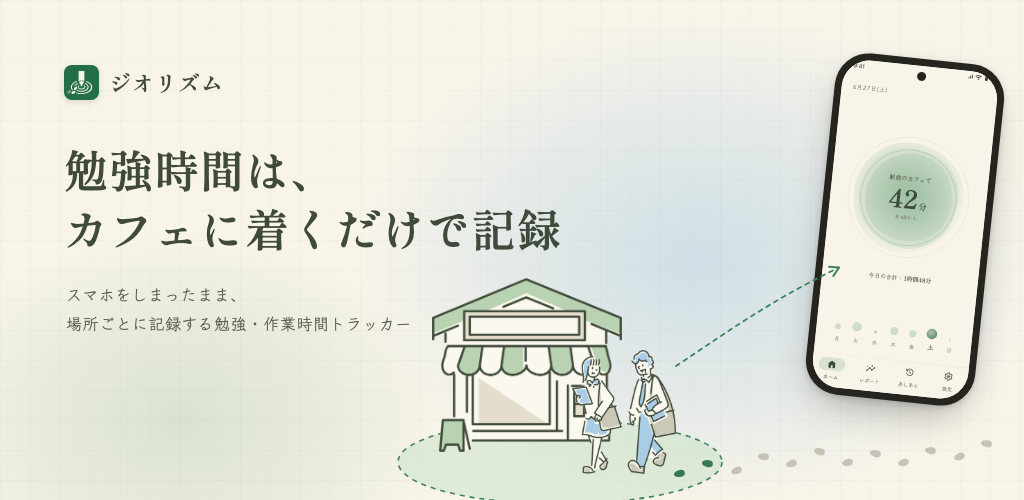
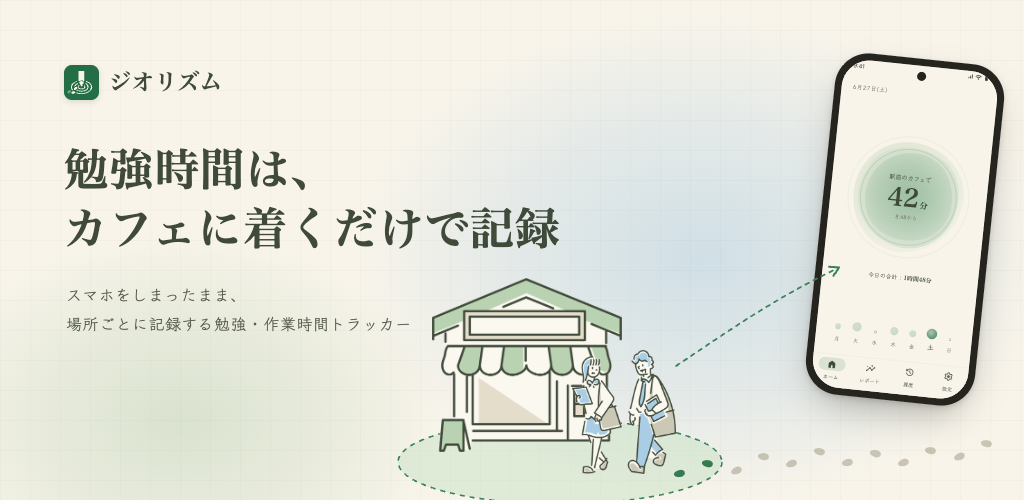
docs: アプリ内の文言の見直しに合わせて、プライバシーポリシーと紹介ページを更新する
アプリ側(geoben #137・#138・#139)で「あしあと」を「履歴」「記録」に、「計測中」を「記録中」に、
「データの管理」を「記録の管理」に改めたことに合わせた。

- privacy.html: 「場所・あしあと・設定」→「場所・記録・設定」、「あしあと画面」→「履歴の画面」、
  「設定 → データの管理」→「設定 → 記録の管理」。最終改定日を2026年10月11日に更新(原本はgeobenのdocuments/privacy_policy.md)
- index.html: 紹介文・画面紹介・よくある質問の画面名を「履歴」「記録の管理」に。履歴のモックのタイトル・「記録中」の印・
  区切りの「・」・年月の「2026年9月」・「1時間」(60分の表記)をアプリに合わせる
- assets/ogp.png: geobenで再書き出ししたフィーチャーグラフィック(端末の画面内のタブ名が「履歴」)に差し替え
- README.md: 画面名の表とモックの説明を更新

diff --git a/index.html b/index.html
@@ -270,7 +270,7 @@ a:focus-visible,summary:focus-visible{outline:2px solid var(--color-moss);outlin
 .m-cal-grid i.l3{background:var(--color-cafe-heat-3)}
 .m-cal-grid i.l4{background:var(--color-cafe-heat-4);color:var(--color-seg-sel)}
 
-/* --- あしあと(履歴) --- */
+/* --- 履歴 --- */
 .m-hist-body{flex:1;padding:44px 24px 0;min-height:0;overflow:hidden}
 .m-day-head{display:flex;align-items:baseline;justify-content:space-between;margin:20px 2px 6px}
 .m-day-head span:first-child{font-size:13px;color:var(--color-ink-soft)}
@@ -502,7 +502,7 @@ dialog::backdrop{background:rgba(58,54,48,.42)}
       <div class="step reveal">
         <div class="step-num">3</div>
         <h3>積み上げを振り返る</h3>
-        <p>たまった記録は、レポートやあしあとの画面でいつでも見られます。</p>
+        <p>たまった記録は、レポートや履歴の画面でいつでも見られます。</p>
       </div>
     </div>
 
@@ -530,7 +530,7 @@ dialog::backdrop{background:rgba(58,54,48,.42)}
               <div class="m-report-body">
                 <div class="m-title">レポート</div>
                 <div class="m-seg"><span class="sel">月</span><span>全期間</span></div>
-                <div class="m-period"><span class="ms">chevron_left</span>2026年 9月<span class="ms dim">chevron_right</span></div>
+                <div class="m-period"><span class="ms">chevron_left</span>2026年9月<span class="ms dim">chevron_right</span></div>
 
                 <div class="m-card cafe">
                   <div class="m-card-head"><span class="m-tile"><span class="ms">local_cafe</span></span><span class="m-card-name">駅前のカフェ</span><span class="ms chev">chevron_right</span></div>
@@ -577,7 +577,7 @@ dialog::backdrop{background:rgba(58,54,48,.42)}
                   <div class="m-stats"><div><small>回数</small><b>12回</b></div><div><small>1回の平均</small><b>1時間34分</b></div></div>
                 </div>
                 <div class="m-cal">
-                  <div class="m-period"><span class="ms">chevron_left</span>2026年 9月<span class="ms dim">chevron_right</span></div>
+                  <div class="m-period"><span class="ms">chevron_left</span>2026年9月<span class="ms dim">chevron_right</span></div>
                   <div class="m-cal-dow"><span>月</span><span>火</span><span>水</span><span>木</span><span>金</span><span>土</span><span>日</span></div>
                   <div class="m-cal-grid"><span></span><span><i class="l0">1</i></span><span><i class="l3" style="width:31.4px;height:31.4px">2</i></span><span><i class="l0">3</i></span><span><i class="l3" style="width:33.2px;height:33.2px">4</i></span><span><i class="l0">5</i></span><span><i class="l4" style="width:38.0px;height:38.0px">6</i></span><span><i class="l3" style="width:29.6px;height:29.6px">7</i></span><span><i class="l0">8</i></span><span><i class="l3" style="width:32.6px;height:32.6px">9</i></span><span><i class="l0">10</i></span><span><i class="l4" style="width:36.8px;height:36.8px">11</i></span><span><i class="l2" style="width:28.4px;height:28.4px">12</i></span><span><i class="l3" style="width:30.6px;height:30.6px">13</i></span><span><i class="l0">14</i></span><span><i class="l2" style="width:27.8px;height:27.8px">15</i></span><span><i class="l4" style="width:35.0px;height:35.0px">16</i></span><span><i class="l0">17</i></span><span><i class="l2" style="width:27.2px;height:27.2px">18</i></span><span><i class="l2" style="width:25.0px;height:25.0px">19</i></span><span><i class="l0">20</i></span><span><i class="l0">21</i></span><span><i class="l0">22</i></span><span><i class="l0">23</i></span><span><i class="l0">24</i></span><span><i class="l0">25</i></span><span><i class="l0">26</i></span><span><i class="l0">27</i></span><span><i class="l0">28</i></span><span><i class="l0">29</i></span><span><i class="l0">30</i></span></div>
                 </div>
@@ -594,54 +594,54 @@ dialog::backdrop{background:rgba(58,54,48,.42)}
         <figcaption><strong>場所の詳細</strong><span>カードをタップすると、その場所の1か月の記録を日ごとに見られます。</span></figcaption>
       </figure>
 
-      <!-- あしあと -->
+      <!-- 履歴 -->
       <figure class="shot-fig reveal">
         <div class="device">
           <div class="device-screen">
             <!-- スクショ差し替え: assets/screenshots/history.png -->
-            <img class="shot" src="assets/screenshots/history.png" alt="ジオリズムのあしあと(履歴)画面" loading="lazy" onload="this.closest('.device').classList.add('has-shot')" onerror="this.remove()">
+            <img class="shot" src="assets/screenshots/history.png" alt="ジオリズムの履歴画面" loading="lazy" onload="this.closest('.device').classList.add('has-shot')" onerror="this.remove()">
             <div class="mock" aria-hidden="true">
               <div class="m-hist-body">
-                <div class="m-title">あしあと</div>
+                <div class="m-title">履歴</div>
 
                 <div class="m-day-head"><span>今日・9月19日(土)</span><span>1時間48分</span></div>
                 <div class="m-row">
                   <div class="ic"><span class="tile lib"><span class="ms">local_library</span></span></div>
-                  <div class="txt"><span class="place lib">市立図書館</span><span class="when">7:30 → 8:36 · <b class="lib">1時間6分</b></span></div>
+                  <div class="txt"><span class="place lib">市立図書館</span><span class="when">7:30 → 8:36・<b class="lib">1時間6分</b></span></div>
                 </div>
                 <div class="m-path"><i></i><i></i></div>
                 <div class="m-row">
                   <div class="ic"><span class="rip"></span><span class="tile cafe live"><span class="ms">local_cafe</span></span></div>
-                  <div class="txt"><span class="place">駅前のカフェ<em>計測中</em></span><span class="when">8:48 → 今 · <b>42分</b></span></div>
+                  <div class="txt"><span class="place">駅前のカフェ<em>記録中</em></span><span class="when">8:48 → 今・<b>42分</b></span></div>
                 </div>
 
                 <!-- 日をまたぐ足あとは3つ(アプリと同じ) -->
                 <div class="m-path"><i></i><i></i><i></i></div>
-                <div class="m-day-head" style="margin-top:0"><span>昨日・9月18日(金)</span><span>1時間0分</span></div>
+                <div class="m-day-head" style="margin-top:0"><span>昨日・9月18日(金)</span><span>1時間</span></div>
                 <div class="m-row">
                   <div class="ic"><span class="tile cafe"><span class="ms">local_cafe</span></span></div>
-                  <div class="txt"><span class="place">駅前のカフェ</span><span class="when">19:12 → 20:12 · <b>1時間0分</b></span></div>
+                  <div class="txt"><span class="place">駅前のカフェ</span><span class="when">19:12 → 20:12・<b>1時間</b></span></div>
                 </div>
 
                 <div class="m-path"><i></i><i></i><i></i></div>
                 <div class="m-day-head" style="margin-top:0"><span>9月17日(木)</span><span>1時間30分</span></div>
                 <div class="m-row">
                   <div class="ic"><span class="tile lib"><span class="ms">local_library</span></span></div>
-                  <div class="txt"><span class="place lib">市立図書館</span><span class="when">18:40 → 20:10 · <b class="lib">1時間30分</b></span></div>
+                  <div class="txt"><span class="place lib">市立図書館</span><span class="when">18:40 → 20:10・<b class="lib">1時間30分</b></span></div>
                 </div>
 
                 <div class="m-path"><i></i><i></i><i></i></div>
                 <div class="m-day-head" style="margin-top:0"><span>9月16日(水)</span><span>2時間5分</span></div>
                 <div class="m-row">
                   <div class="ic"><span class="tile cafe"><span class="ms">local_cafe</span></span></div>
-                  <div class="txt"><span class="place">駅前のカフェ</span><span class="when">9:20 → 11:25 · <b>2時間5分</b></span></div>
+                  <div class="txt"><span class="place">駅前のカフェ</span><span class="when">9:20 → 11:25・<b>2時間5分</b></span></div>
                 </div>
 
                 <div class="m-path"><i></i><i></i><i></i></div>
                 <div class="m-day-head" style="margin-top:0"><span>9月14日(月)</span><span>1時間15分</span></div>
                 <div class="m-row">
                   <div class="ic"><span class="tile lib"><span class="ms">local_library</span></span></div>
-                  <div class="txt"><span class="place lib">市立図書館</span><span class="when">19:00 → 20:15 · <b class="lib">1時間15分</b></span></div>
+                  <div class="txt"><span class="place lib">市立図書館</span><span class="when">19:00 → 20:15・<b class="lib">1時間15分</b></span></div>
                 </div>
               </div>
               <nav class="m-tabbar">
@@ -653,7 +653,7 @@ dialog::backdrop{background:rgba(58,54,48,.42)}
             </div>
           </div>
         </div>
-        <figcaption><strong>あしあと</strong><span>毎日の歩みをタイムラインで遡れます。間違った記録は、あとから編集・削除できます。</span></figcaption>
+        <figcaption><strong>履歴</strong><span>毎日の歩みをタイムラインで遡れます。間違った記録は、あとから編集・削除できます。</span></figcaption>
       </figure>
 
     </div>
@@ -722,7 +722,7 @@ dialog::backdrop{background:rgba(58,54,48,.42)}
       <details>
         <summary><span class="q">記録の時刻がずれることはありますか?</span><span class="ms">expand_more</span></summary>
         <p>場所への出入りの検知には、数分ほどの遅れが出ることがあります。ジオリズムは積み上げを手間なく、おおまかに把握するためのアプリなので、この遅れは補正していません。</p>
-        <p>細かい時刻の修正は、「あしあと」画面からできます。</p>
+        <p>細かい時刻の修正は、「履歴」画面からできます。</p>
       </details>
       <details>
         <summary><span class="q">登録した場所の近くを通るだけでも記録されてしまうのでしょうか?</span><span class="ms">expand_more</span></summary>
@@ -738,11 +738,11 @@ dialog::backdrop{background:rgba(58,54,48,.42)}
       </details>
       <details>
         <summary><span class="q">間違って記録されたときは?</span><span class="ms">expand_more</span></summary>
-        <p>「あしあと」画面から、記録の編集や削除ができます。</p>
+        <p>「履歴」画面から、記録の編集や削除ができます。</p>
       </details>
       <details>
         <summary><span class="q">記録を書き出せますか?</span><span class="ms">expand_more</span></summary>
-        <p>設定の「データの管理」から、記録をCSVファイルとして書き出せます。</p>
+        <p>設定の「記録の管理」から、記録をCSVファイルとして書き出せます。</p>
       </details>
       <details>
         <summary><span class="q">iPhoneでも使えますか?</span><span class="ms">expand_more</span></summary>

diff --git a/privacy.html b/privacy.html
@@ -47,7 +47,7 @@
 <nav class="crumb" aria-label="パンくずリスト"><a href="./index.html">ジオリズム</a><span aria-hidden="true">›</span><span aria-current="page">プライバシーポリシー</span></nav>
 <main>
   <h1>ジオリズム プライバシーポリシー</h1>
-  <p class="date">制定日: 2026年7月18日<br>最終改定日: 2026年10月6日</p>
+  <p class="date">制定日: 2026年7月18日<br>最終改定日: 2026年10月11日</p>
 
   <p class="lead">「ジオリズム」(以下「本アプリ」)は、開発室Unagi(以下「開発者」)が開発・運営する、場所への滞在を自動記録する勉強・作業時間トラッカーです。本ポリシーは、本アプリが取り扱う利用者の情報とその目的を説明するものです。</p>
 
@@ -129,13 +129,13 @@
 
   <h3>5.1 記録の削除</h3>
   <ul>
-    <li>アプリ内の「設定 → データの管理 → 記録をすべて削除する」で、場所・あしあと・設定を、サーバー上のものも含めていつでもすべて削除できます。</li>
-    <li>個別の記録は、あしあと画面からいつでも削除できます。</li>
+    <li>アプリ内の「設定 → 記録の管理 → 記録をすべて削除する」で、場所・記録・設定を、サーバー上のものも含めていつでもすべて削除できます。</li>
+    <li>個別の記録は、履歴の画面からいつでも削除できます。</li>
   </ul>
 
   <h3>5.2 アカウントの削除</h3>
   <ul>
-    <li>メールアドレスまたはGoogleアカウントを連携している場合は、アプリ内の「設定 → アカウント → アカウントを削除する」で、場所・あしあと・設定とあわせてアカウント自体を削除できます。</li>
+    <li>メールアドレスまたはGoogleアカウントを連携している場合は、アプリ内の「設定 → アカウント → アカウントを削除する」で、場所・記録・設定とあわせてアカウント自体を削除できます。</li>
     <li>アプリを利用できない場合は、下記の連絡先に、件名を「ジオリズムのアカウント削除」とし、連携したメールアドレスを添えてご連絡ください。ご本人の確認のうえ、アカウントと記録を削除します。</li>
   </ul>
 

diff --git a/README.md b/README.md
@@ -16,11 +16,11 @@
 | `assets/screenshots/home.png` | ヒーローのホーム画面 |
 | `assets/screenshots/report.png` | 画面紹介のレポート |
 | `assets/screenshots/place.png` | 画面紹介の場所の詳細 |
-| `assets/screenshots/history.png` | 画面紹介のあしあと |
+| `assets/screenshots/history.png` | 画面紹介の履歴 |
 
 - 縦長の画面キャプチャをそのまま置けばOK(枠は縦横比 390:820。はみ出す分は下側が切れる)
 - 拡張子を変える(`.webp` など)場合は、`index.html` の `<img class="shot" src="...">` を書き換える
-- モック側の中身は、アプリの現行仕様(ホーム=前期間比較なし・「今日の合計 : 〜」、レポート=場所の記録帳、場所の詳細=月のドット暦、あしあと=除外なし)と場所の色(浅葱・青・レモン)に合わせてある(2026-10-06時点)。アプリのUIを変えたら、スクショを撮り直すか、モックを直す
+- モック側の中身は、アプリの現行仕様(ホーム=前期間比較なし・「今日の合計 : 〜」、レポート=場所の記録帳、場所の詳細=月のドット暦、履歴=除外なし)と場所の色(浅葱・青・レモン)に合わせてある(2026-10-06時点)。2026-10-11に、アプリ内の文言の見直し(「あしあと」→「履歴」、「計測中」→「記録中」、区切りの「・」等)に合わせてモックと紹介文を更新した。アプリのUIを変えたら、スクショを撮り直すか、モックを直す
 
 ## 入手ボタン
 
